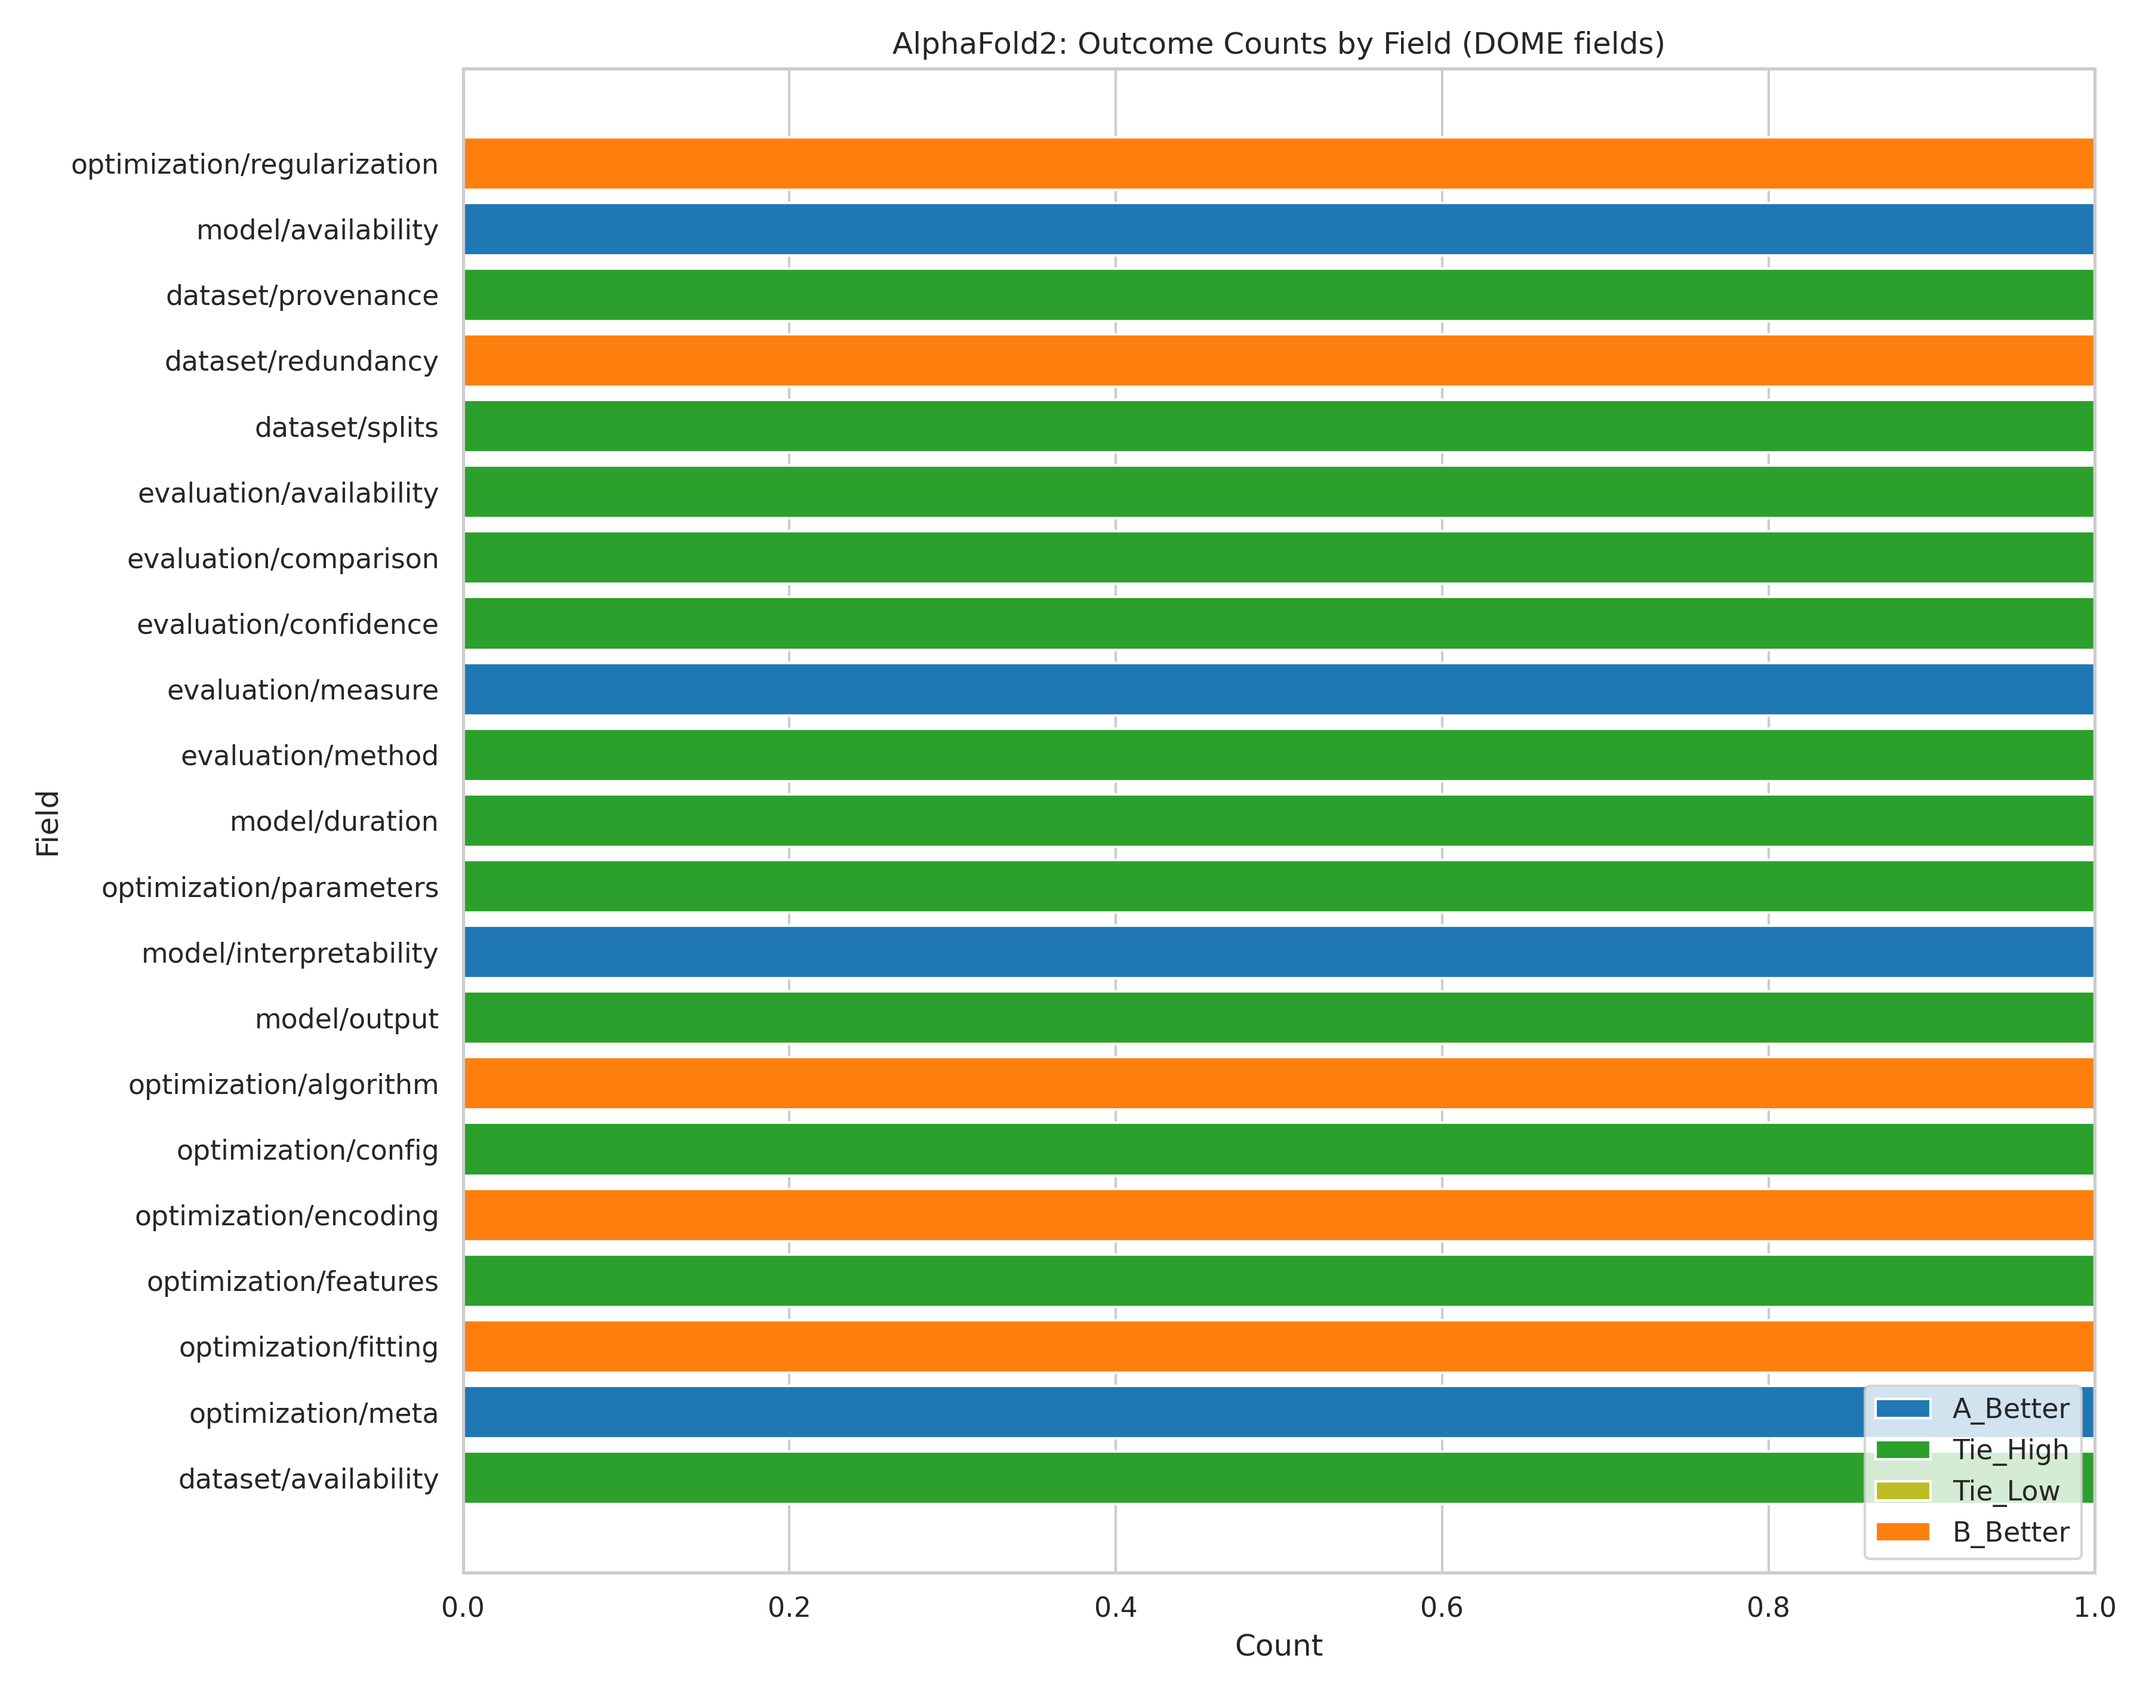
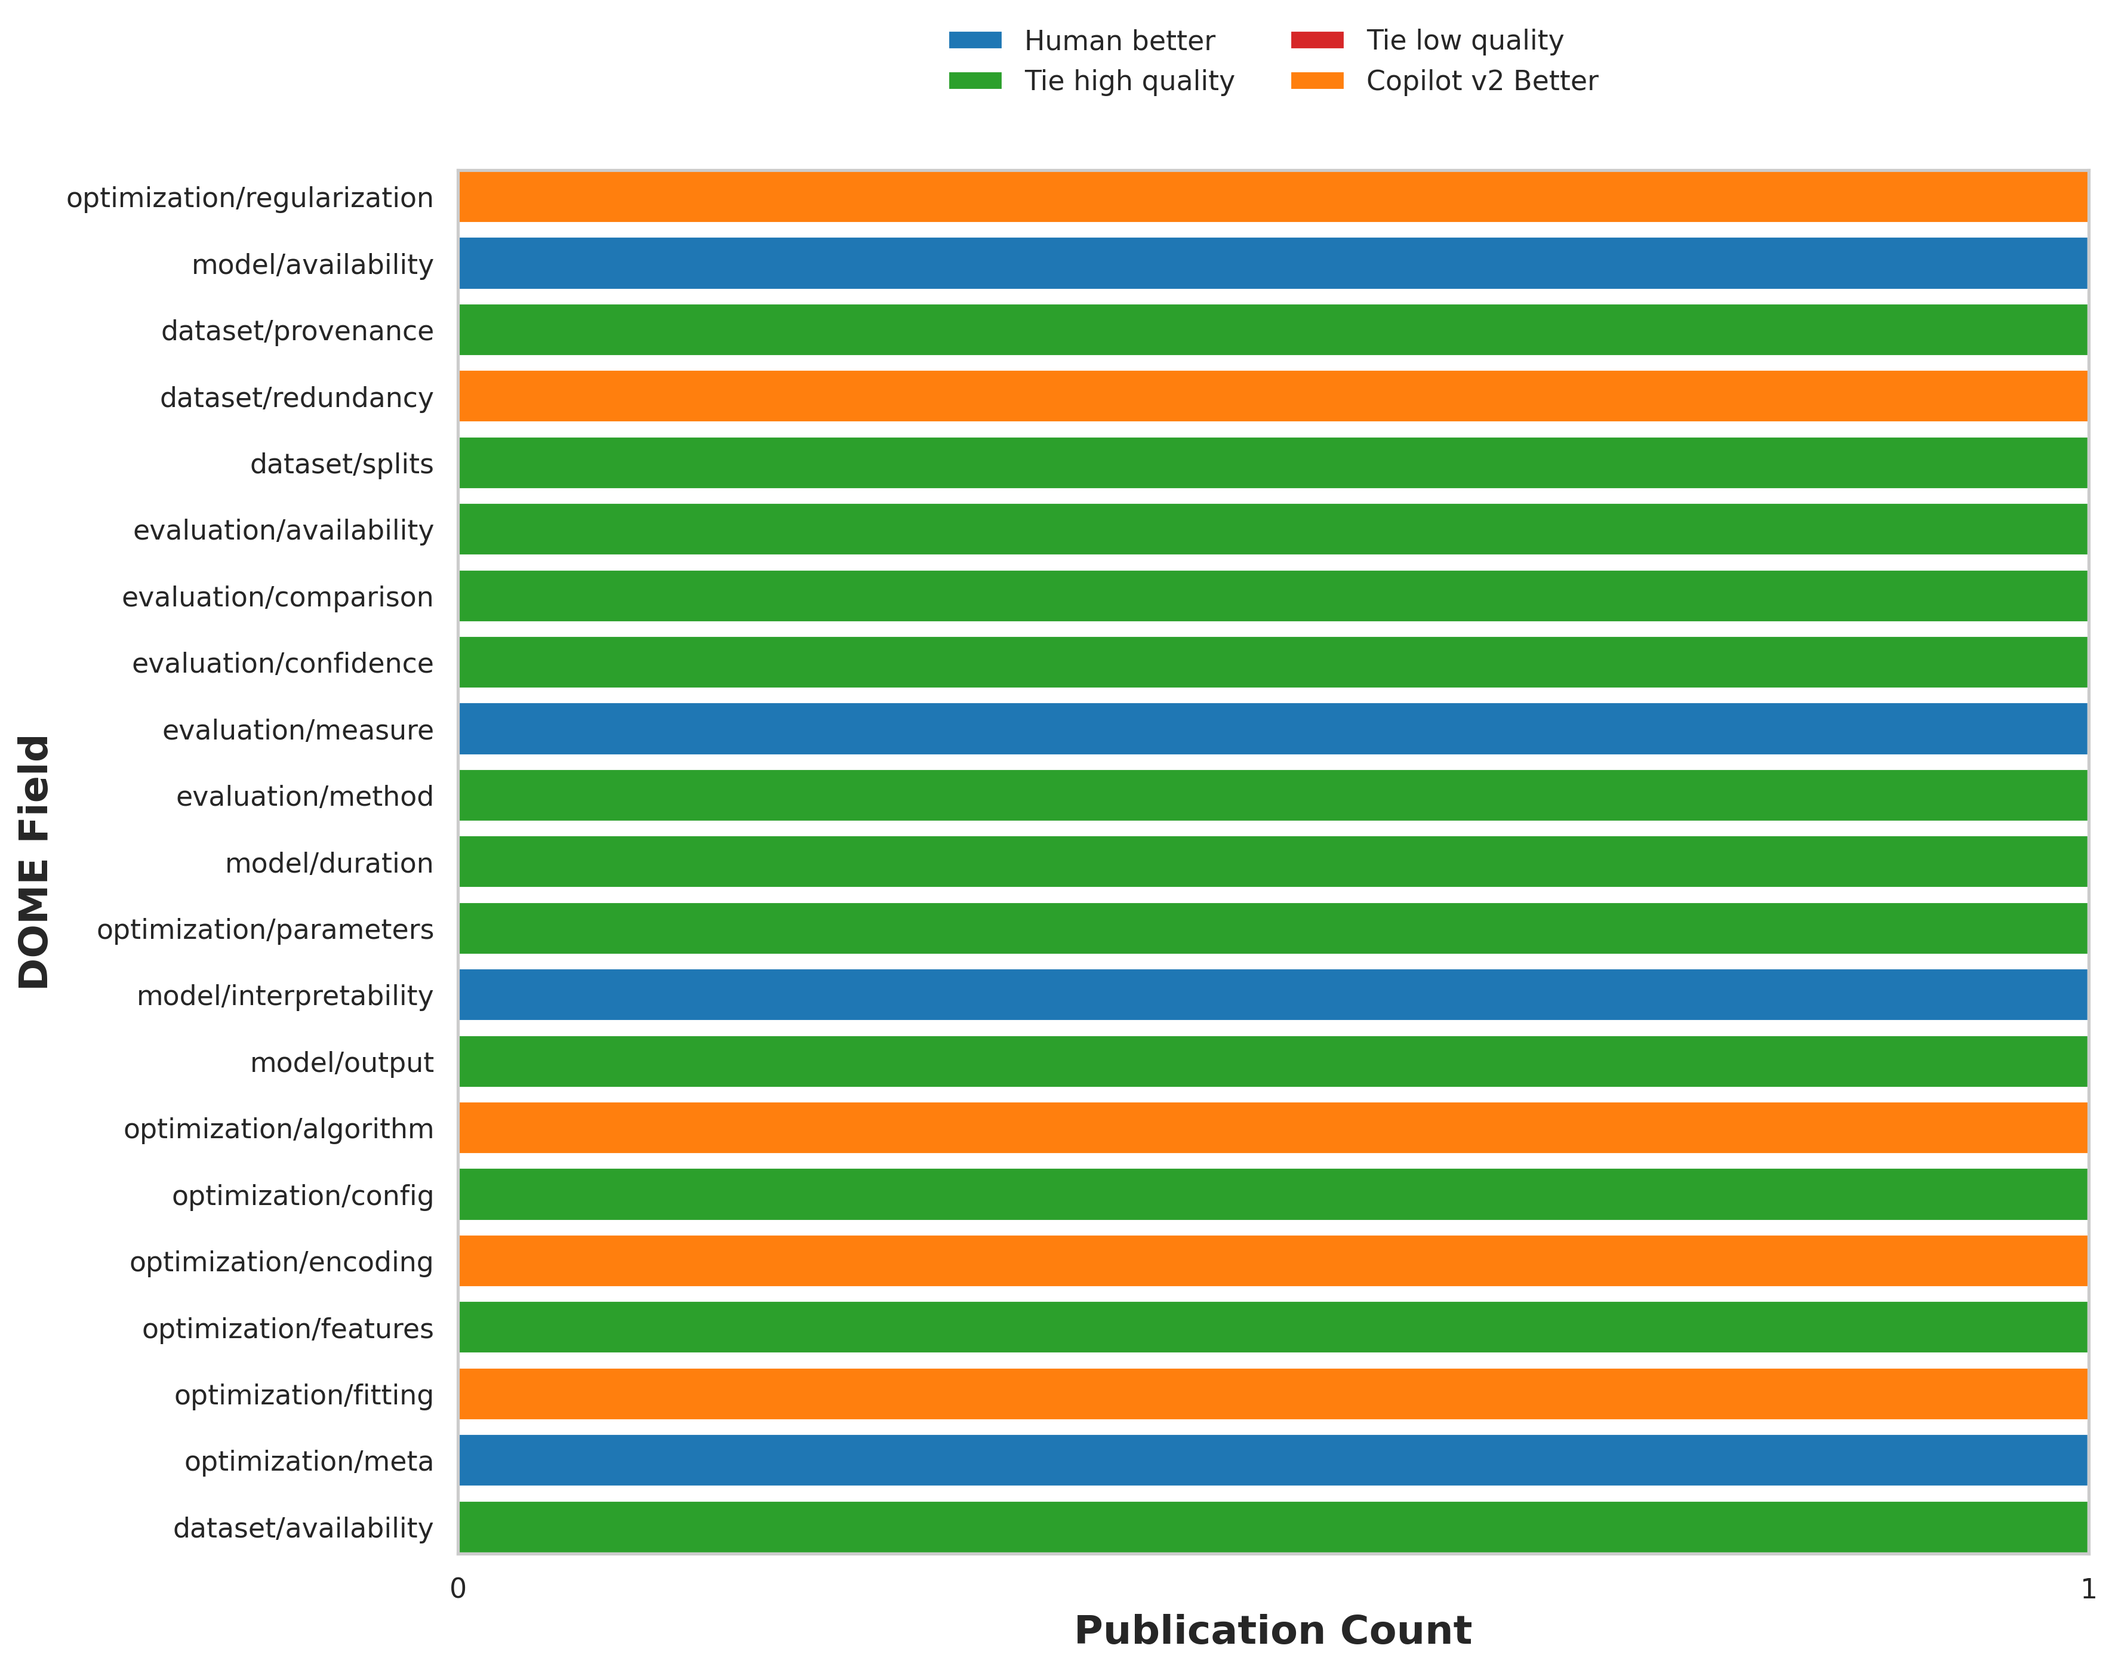
Figure finalisation alphafold comparisons

diff --git a/AlphaFold2_Copilot_v2_vs_Human_Evaluation/generate_alphafold_evaluation_plots.py b/AlphaFold2_Copilot_v2_vs_Human_Evaluation/generate_alphafold_evaluation_plots.py
@@ -29,8 +29,14 @@ RANK_ORDER = ["A_Better", "Tie_High", "Tie_Low", "B_Better"]
 RANK_COLORS = {
     "A_Better": "#1f77b4",
     "Tie_High": "#2ca02c",
-    "Tie_Low": "#bcbd22",
+    "Tie_Low": "#d62728",
     "B_Better": "#ff7f0e",
+}
+RANK_LABELS = {
+    "A_Better": "Human better",
+    "Tie_High": "Tie high quality",
+    "Tie_Low": "Tie low quality",
+    "B_Better": "Copilot v2 Better",
 }
 RANK_SCORE = {"A_Better": -1, "Tie_High": 0, "Tie_Low": 0, "B_Better": 1}
 
@@ -73,24 +79,27 @@ def plot_field_outcomes(current_df):
 
     counts = counts.loc[counts.sum(axis=1).sort_values(ascending=True).index]
 
-    plt.figure(figsize=(12, max(7, 0.45 * len(counts))))
+    fig, ax = plt.subplots(figsize=(12, max(7, 0.45 * len(counts))))
     left = None
     for rank in RANK_ORDER:
         vals = counts[rank].to_numpy()
+        label = RANK_LABELS[rank]
         if left is None:
-            plt.barh(counts.index, vals, color=RANK_COLORS[rank], label=rank)
+            ax.barh(counts.index, vals, color=RANK_COLORS[rank], label=label)
             left = vals
         else:
-            plt.barh(counts.index, vals, left=left, color=RANK_COLORS[rank], label=rank)
+            ax.barh(counts.index, vals, left=left, color=RANK_COLORS[rank], label=label)
             left = left + vals
 
-    plt.title("AlphaFold2: Outcome Counts by Field (DOME fields)")
-    plt.xlabel("Count")
-    plt.ylabel("Field")
-    plt.legend(loc="lower right")
+    ax.set_xlabel("Publication Count", fontsize=16, fontweight='bold')
+    ax.set_ylabel("DOME Field", fontsize=16, fontweight='bold')
+    ax.set_xticks([0, 1])
+    ax.set_xlim(0, 1)
+    ax.margins(y=0)
+    ax.legend(loc='upper center', bbox_to_anchor=(0.5, 1.12), ncol=2, frameon=False)
     plt.tight_layout()
     out_path = os.path.join(PLOTS_DIR, "01_Field_Outcome_Stacked.png")
-    plt.savefig(out_path, dpi=300)
+    plt.savefig(out_path, dpi=300, bbox_inches='tight')
     plt.close()
     print(f"Saved: {out_path}")
 
@@ -133,17 +142,21 @@ def plot_signed_field_comparison(current_df):
     print(f"Saved: {out_path}")
 
 
+DISPLAY_ORDER = ["B_Better", "A_Better", "Tie_High", "Tie_Low"]
+
+
 def plot_overall_distribution(current_df):
-    counts = current_df["Rank"].value_counts().reindex(RANK_ORDER, fill_value=0)
+    counts = current_df["Rank"].value_counts().reindex(DISPLAY_ORDER, fill_value=0)
     if counts.sum() == 0:
         print("No rows available for overall distribution plot.")
         return
 
+    display_labels = [RANK_LABELS[r] for r in counts.index]
+
     plt.figure(figsize=(8, 6))
-    bars = plt.bar(counts.index, counts.values, color=[RANK_COLORS[r] for r in counts.index])
-    plt.title("AlphaFold2: Overall Rank Distribution")
-    plt.xlabel("Rank")
-    plt.ylabel("Count")
+    bars = plt.bar(display_labels, counts.values, color=[RANK_COLORS[r] for r in counts.index])
+    plt.xlabel("Manual Review Result", fontsize=16, fontweight='bold', labelpad=14)
+    plt.ylabel("DOME Field Count", fontsize=16, fontweight='bold')
 
     for bar in bars:
         h = bar.get_height()
@@ -151,7 +164,7 @@ def plot_overall_distribution(current_df):
 
     plt.tight_layout()
     out_path = os.path.join(PLOTS_DIR, "03_Overall_Rank_Distribution.png")
-    plt.savefig(out_path, dpi=300)
+    plt.savefig(out_path, dpi=300, bbox_inches='tight')
     plt.close()
     print(f"Saved: {out_path}")
 
